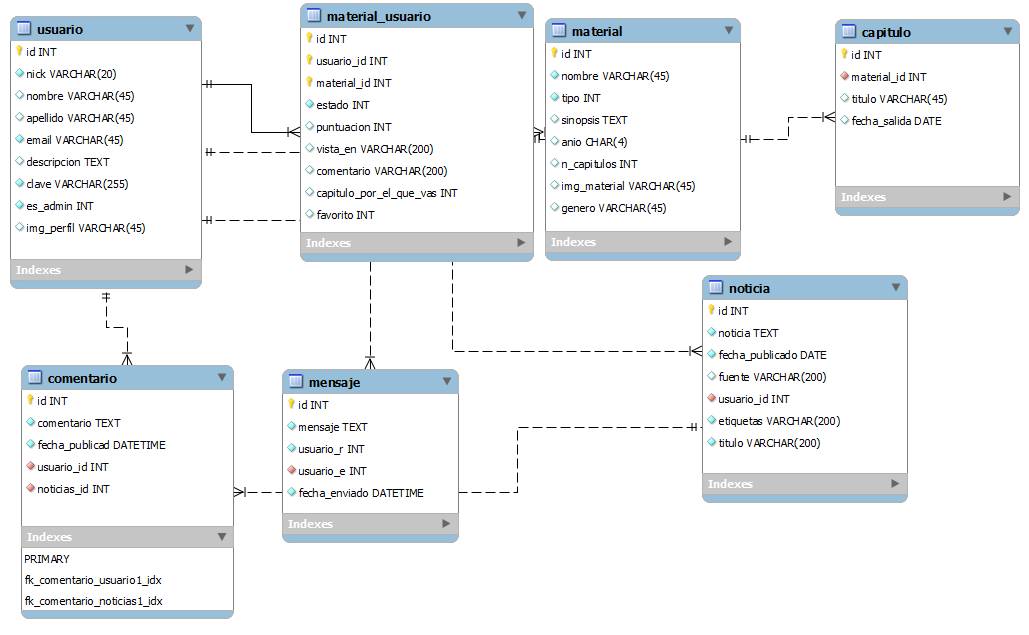
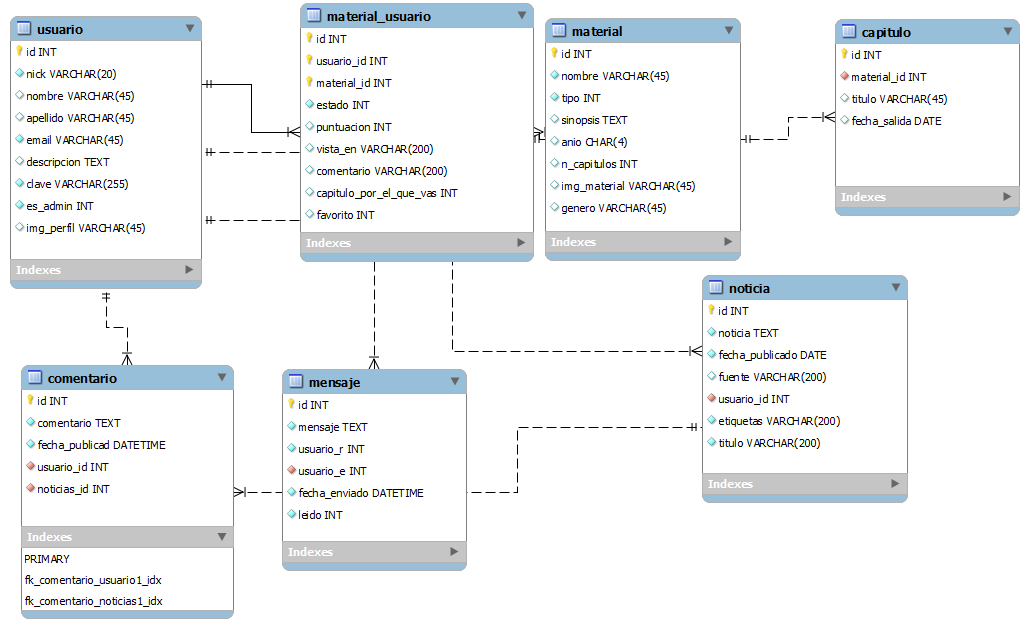
Mas avances.
Arreglados bugs en el perfil del usuario.
Añadido campo 'leido' para los mensajes privados.

Changed region(s): [[0.2488, 0.8079, 0.4665, 0.8976], [0.4354, 0.5685, 0.4665, 0.6283], [0.3421, 0.5685, 0.3732, 0.5984]]

diff --git a/public/index.php b/public/index.php
@@ -361,7 +361,6 @@ $app->map('/datosusuario/:nicku/:modo/:priv', function($nicku, $modo, $priv) use
                 if (usuario_logeado($nicku)) {
                     $soyyo = 'si';
                     $clase = array('col-md-9', 'col-md-3');
-                    
                     if($priv == 1)
                     {
                         $mensajes = mensajes_privados($datosUsuario->id);
@@ -371,9 +370,11 @@ $app->map('/datosusuario/:nicku/:modo/:priv', function($nicku, $modo, $priv) use
                     else
                     {
                         $conjuntoUsuarios = mensajes_privados_contenido($priv);
-                        foreach($conjuntoUsuarios as $conj)
-                        {
-                            $conj->usuario_e = ORM::for_table('usuario')->find_one($conj->usuario_e)->nick;
+                        if($conjuntoUsuarios != null){
+                            foreach($conjuntoUsuarios as $conj)
+                            {
+                                    $conj->usuario_e = ORM::for_table('usuario')->find_one($conj->usuario_e)->nick;
+                            }
                         }
                         $N = -1;
                     }
@@ -384,18 +385,21 @@ $app->map('/datosusuario/:nicku/:modo/:priv', function($nicku, $modo, $priv) use
                     $clase = array('col-md-12', 'col-md-4');
                 }
                 $favs = favoritos($datosUsuario->id);
-
-                $app->render('datosusuario.html.twig', array(
-                    'datos' => $datosUsuario,
-                    'favs' => $favs,
-                    'caso' => $caso,
-                    'soyyo' => $soyyo,
-                    'clase' => $clase,
-                    'mensajespriv' => $conjuntoUsuarios,
-                    'usuariomensajes' => $priv,
-                    'N' => $N,
-                    'usuario' => $_SESSION['logeo']
-                ));
+                if($conjuntoUsuarios == null)
+                    $app->redirect($app->urlFor('registro'));
+                else{
+                    $app->render('datosusuario.html.twig', array(
+                        'datos' => $datosUsuario,
+                        'favs' => $favs,
+                        'caso' => $caso,
+                        'soyyo' => $soyyo,
+                        'clase' => $clase,
+                        'mensajespriv' => $conjuntoUsuarios,
+                        'usuariomensajes' => $priv,
+                        'N' => $N,
+                        'usuario' => $_SESSION['logeo']
+                    ));
+                }
             }
     }
     else

diff --git a/public/funciones.php b/public/funciones.php
@@ -564,9 +564,13 @@ function mensajes_privados($idUsuario) {
 function mensajes_privados_contenido($usuario)
 {
     $idUsuario = ORM::for_table('usuario')->where('nick',$usuario)->find_one();
-    $mensaje = ORM::for_table('mensaje')->
-            where_raw('`usuario_e` = ? OR `usuario_r` = ?', array($idUsuario->id, $idUsuario->id))->
-            find_many();
+    if(!empty($idUsuario)){
+        $mensaje = ORM::for_table('mensaje')->
+                where_raw('`usuario_e` = ? OR `usuario_r` = ?', array($idUsuario->id, $idUsuario->id))->
+                find_many();
+    }
+    else
+        $mensaje = null;
     return $mensaje;
 }
 
